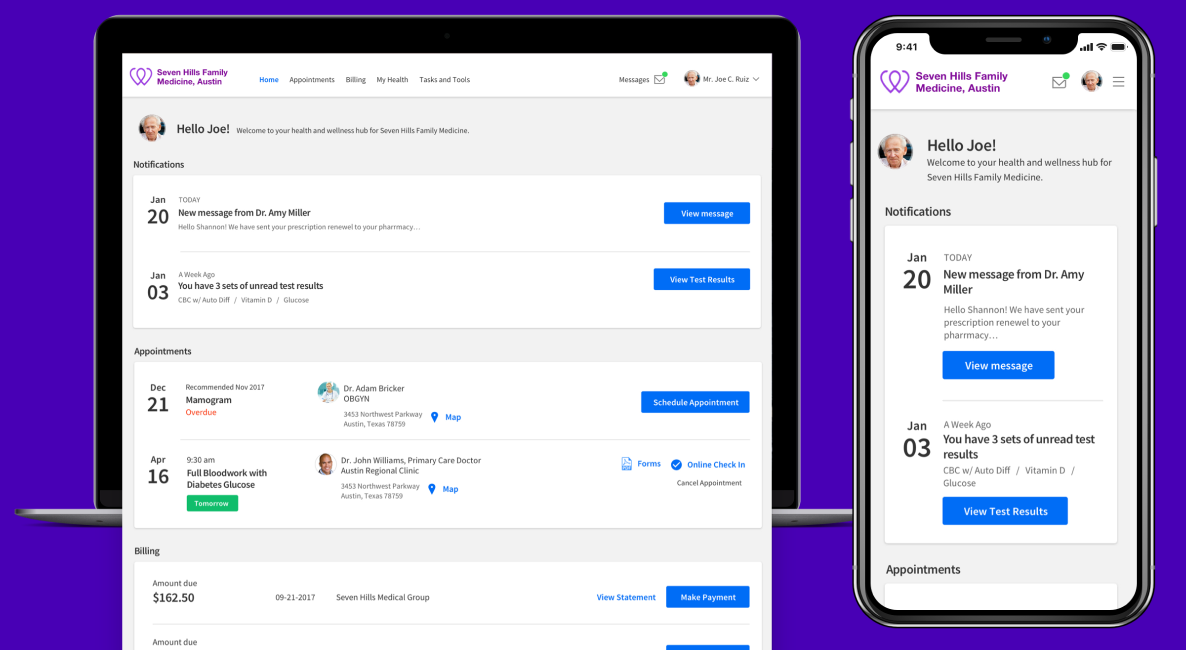
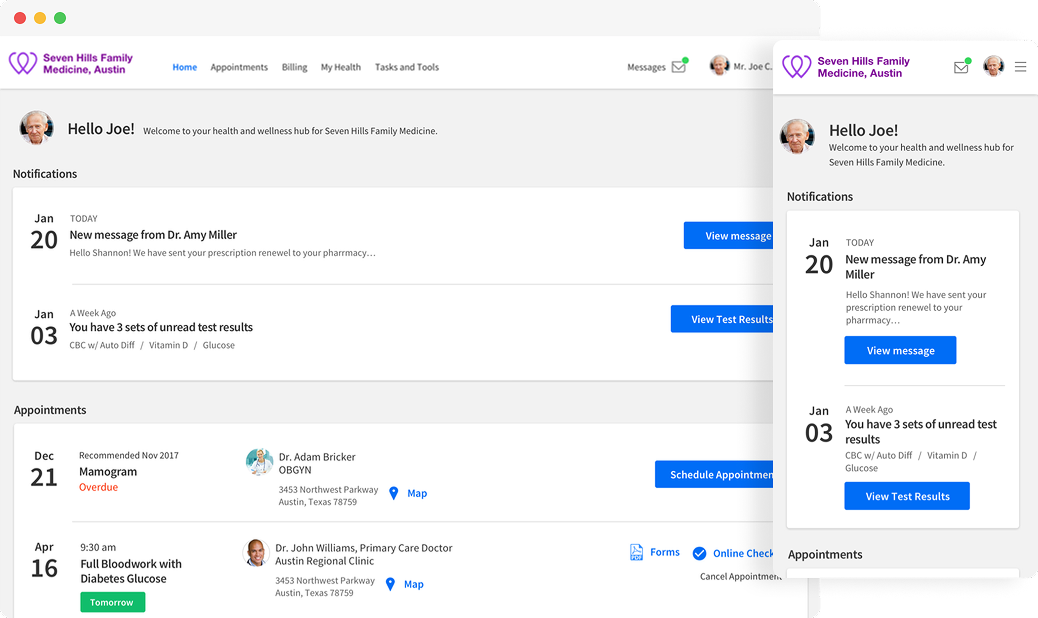
athenahealth: new hero export, and a height cap so it can't be cut off
The Figma frame Molly sent (1038x618, 1.6796) replaces the old 1186x650
(1.8246). At the same stepped widths the taller artwork ran past the
bottom of a short window, which the hero section clips, so lg:max-w-none
becomes a per-breakpoint cap: the room under the image's own top inset
(252/280/315 plus 24 of breathing) times the artwork's aspect. On a
1440x912 window that caps 1054 to 1021 and the whole thing fits; on a
626-tall window it scales to 588 instead of being cut in half.

Claude-Session: https://claude.ai/code/session_01RLouzVrbNTjUkSyYEhtmgu

diff --git a/app/work/athenahealth/page.tsx b/app/work/athenahealth/page.tsx
@@ -115,12 +115,12 @@ export default function ConsumerHealthCaseStudy() {
               105px from the left edge and 215px from the right at 1400 —
               visibly left-heavy, since the artwork is narrower than the
               rail-to-rail span it was drawn for. */}
-          <div className="relative z-0 mx-auto w-full max-w-[min(92vw,1186px)] lg:absolute lg:left-1/2 lg:top-[252px] xl:top-[280px] 2xl:top-[315px] lg:mx-0 lg:w-[843px] xl:w-[1054px] 2xl:w-[1265px] lg:max-w-none lg:-translate-x-1/2">
+          <div className="relative z-0 mx-auto w-full max-w-[min(92vw,1038px)] lg:absolute lg:left-1/2 lg:top-[252px] xl:top-[280px] 2xl:top-[315px] lg:mx-0 lg:w-[843px] xl:w-[1054px] 2xl:w-[1265px] lg:max-w-[calc((100dvh_-_276px)_*_1.6796)] xl:max-w-[calc((100dvh_-_304px)_*_1.6796)] 2xl:max-w-[calc((100dvh_-_339px)_*_1.6796)] lg:-translate-x-1/2">
             <Image
               src={`${ASSET}/hero.png`}
               alt="Redesigned patient portal dashboard on desktop and mobile"
-              width={1186}
-              height={650}
+              width={1038}
+              height={618}
               priority
               unoptimized
               className="h-auto w-full"
